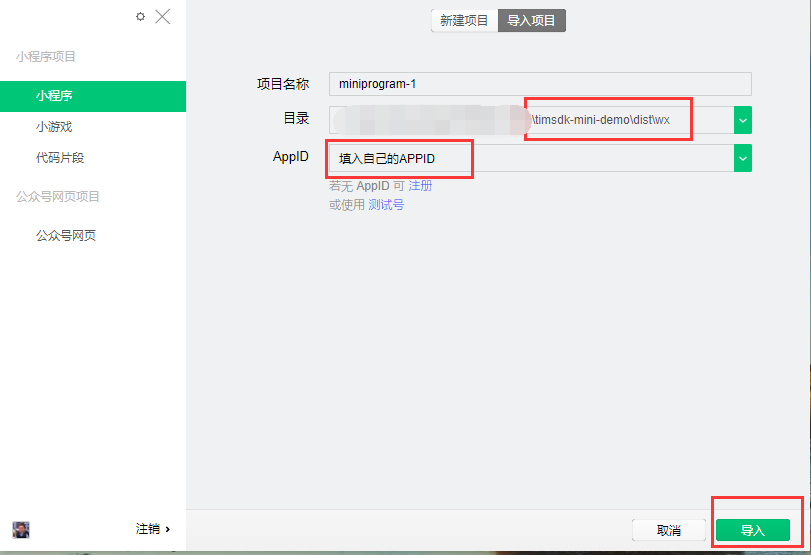
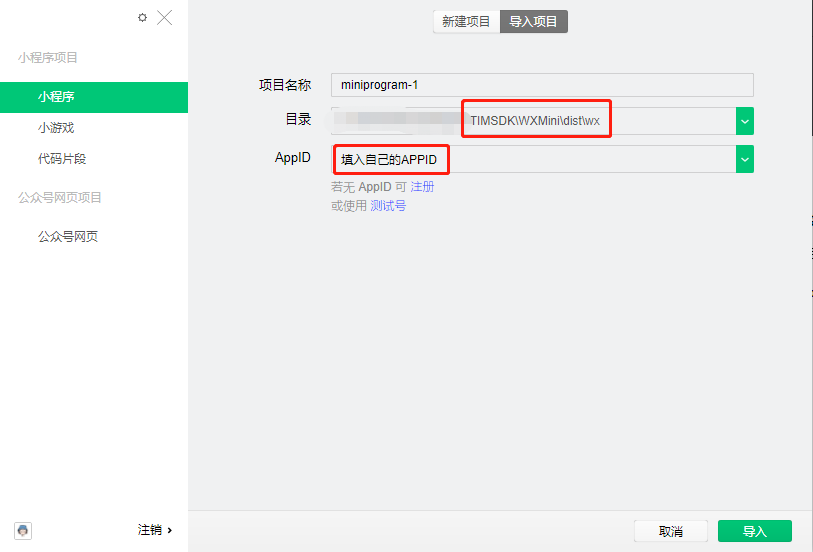
fix(doc):完善文档

diff --git a/WXMini/README.md b/WXMini/README.md
@@ -1,10 +1,6 @@
 # IMSDK小程序demo运行
 
-[获取 SDKAPPID 和 SECRETKEY](https://cloud.tencent.com/document/product/269/36838#.E6.AD.A5.E9.AA.A41.EF.BC.9A.E5.88.9B.E5.BB.BA.E5.BA.94.E7.94.A8)
-
-##  1分钟预览项目
-
-此小节专为想在本地快速预览小程序的用户说明如何快速在本地预览本项目
+##  一分钟跑通demo
 
 1. 安装微信小程序 [开发者工具](https://mp.weixin.qq.com/debug/wxadoc/dev/devtools/download.html)。
 
@@ -12,102 +8,57 @@
 
    ![](_doc/1.png)
 
-3. 修改`/dist/wx/static/debug/GeneraterUserSig.js` 文件里的 SDKAPPID 和 SECRETKEY 为第一步获取到的
-
+3. 配置 `SDKAPPID` 和 `SECRETKEY`，获取方式参考：[密钥获取方法](https://cloud.tencent.com/document/product/269/36838#.E6.AD.A5.E9.AA.A41.EF.BC.9A.E5.88.9B.E5.BB.BA.E5.BA.94.E7.94.A8)
+   1. 打开 `/dist/wx/static/debug/GeneraterUserSig.js` 文件
+   2. 按图示填写相应配置后，保存文件
+   
    ![](_doc/2.png)
 
 4. 点击编译即可运行
 
    ![](_doc/4.png)
+   
+    > **常见问题：**
+    >
+    > 1. 合法域名
+    >
+    >    进入微信公众平台，在小程序开发的服务器域名配置相关域名信息
+    >
+    >    ![](_doc/5.png)
+    >
+    > 2. 基础库
+    >
+    >    如果打开项目后，编译报错，请您升级小程序开发工具为最新版本，基础库版本 > 2.1.1,
+    >
+    > 3. 本地设置
+    >
+    >    如上图所示
 
 
-##  开发运行方法
+##  开发运行
 
-此小节专为想在本地开发小程序的用户说明如何快速在本地环境跑起来项目
-
-1. 安装微信小程序 [开发者工具](https://mp.weixin.qq.com/debug/wxadoc/dev/devtools/download.html)。
-
-2. 使用 IDE 打开下载后目录
-
-3. 将`project.config.json`文件中的`appid`修改为自己项目使用的
-
-   ![](_doc\3.png)
-
-4. 将 `/static/debug/GenerateTestUserSig.js`文件里的 `SDKAPPID` 和 `SECRETKEY` 修改为第一步获取到的 `SDKAPPID` 和 `SECRETKEY` 
-
-5. 项目使用了 [MpVue](http://mpvue.com/mpvue/)需要[nodejs](https://nodejs.org/zh-cn/)( Version > 8 ) 环境
-
-   安装依赖并启动
-
-   ```shell
-   npm install // 安装demo构建和运行所需依赖
-   npm run start / npm run build  // 构建并生成最终可在小程序开发工具内使用的代码
-   ```
-
-   > **常见问题：**
-   >
-   > 1. node 版本希望大于 8
-   >
-   > 2. npm install 出现问题
-   >
-   >    有时使用 npm install 命令有些依赖包无法成功安装，你可以试着切换 npm 源，然后再执行npm install命令
-
-6. 会生成有`dist/wx`文件夹
-
-7. 使用微信开发者工具导入项目，目录为`/dist/wx`
-
-  ![](_doc/1.png)
-
-8. 点击开发工具的编译即可预览该项目
-
-   ![](_doc/4.png)
-
-   > **常见问题：**
-   >
-   > 1. 合法域名
-   >
-   >    进入微信公众平台，在小程序开发的服务器域名配置相关域名信息
-   >
-   >    ![](_doc/5.png)
-   >
-   > 2. 基础库
-   >
-   >    如果打开项目后，编译报错，请您升级小程序开发工具，基础库使用>2.1.1,
-   >
-   > 3. 本地配置
-   >
-   >    本地开发时可以勾选不校验合法域名等
-
-9. 开发参考文档
-
-    > 1. [MpVue](http://mpvue.com/)
-    > 2. [Vue](https://cn.vuejs.org/index.html)
-    > 3. [Vuex](https://vuex.vuejs.org/zh/guide/)
-
-## 项目截图
-
-   ![](_doc/6.png)
-
-## 项目目录
+### 项目目录
 
 ```xml
+├───sdk/               - demo 中未使用，仅供自行集成 
+├  └───wx/ 
 ├───build/   
 ├───config/
 ├───dist/
-│   └───wx/ - MpVue项目编译后文件目录，使用小程序开发工具导入此文件夹
+│   └───wx/            - MpVue 项目编译后文件目录，使用小程序开发工具导入此文件夹
 ├───src/
-│   ├───components/ - 组件
-│   ├───pages/ - 页面
-│   ├───store/ - Vuex 目录
-│   ├───stylus/ - 全局主题色样式，可以修改全局颜色
-│   ├───utils/ - 方法
+│   ├───components/    - 组件
+│   ├───pages/         - 页面
+│   ├───store/         - Vuex 目录
+│   ├───stylus/        - 全局主题色样式，可以修改全局颜色
+│   ├───utils/         - 方法
 │   ├───app.json
 │   ├───App.vue
 │   └───main.js
-├───static/ - 静态依赖资源
-│   ├───debug/ - 包含userSig验证登录方法
-│   ├───images/ - 图片
-│   └───iview/ - 使用的iview组件
+├───static/            - 静态依赖资源
+│   ├───debug/         - 包含 userSig 验证登录方法
+│   ├───images/        - 图片
+│   └───iview/         - 使用的 iview 组件
 ├───_doc/
 ├───.babelrc
 ├───.editorconfig
@@ -122,13 +73,82 @@
 
 ```
 
-#### src/pages
+### 启动流程
 
-| 页面  | 关于                                                         |
+1. 克隆本仓库到本地
+      
+     ```shell
+     # 命令行执行
+     git clone https://github.com/tencentyun/TIMSDK.git
+     
+     # 进入 Web Demo 项目
+     cd TIMSDK/WXMini
+    ```
+
+2. 将`project.config.json`文件中的`appid`修改为自己微信小程序的`appid`
+
+   ![](_doc\3.png)
+
+3. 配置 `SDKAPPID` 和 `SECRETKEY`，获取方式参考：[密钥获取方法](https://cloud.tencent.com/document/product/269/36838#.E6.AD.A5.E9.AA.A41.EF.BC.9A.E5.88.9B.E5.BB.BA.E5.BA.94.E7.94.A8)
+    1. 打开 `/dist/wx/static/debug/GeneraterUserSig.js` 文件
+    2. 按图示填写相应配置后，保存文件
+    
+     ![](_doc/8.png)
+     
+4. 项目使用了 [MpVue](http://mpvue.com/mpvue/) 需要[nodejs](https://nodejs.org/zh-cn/) ( Version > 8 ) 环境
+
+   安装依赖并启动
+
+   ```shell
+   # 安装demo构建和运行所需依赖
+   npm install
+   
+   # 构建并生成最终可在小程序开发工具内使用的代码
+   npm run start
+   ```
+
+   > **注意事项：**
+   >
+   > 1. node version > 8
+   >
+   > 2. 使用 npm install 命令，如果有些依赖包无法成功安装，你可以试着切换 npm 源，然后再执行npm install命令
+
+6. 使用微信开发者工具导入项目，目录为`/dist/wx`
+
+    ![](_doc/1.png)
+
+7. 点击开发工具的编译即可预览该项目
+
+   ![](_doc/4.png)
+
+   > **注意事项：**
+   >
+   > 1. 合法域名
+   >
+   >    进入微信公众平台，在小程序开发的服务器域名配置相关域名信息
+   >
+   >    ![](_doc/5.png)
+   >
+   > 2. 基础库
+   >
+   >    如果打开项目后，编译报错，请您升级小程序开发工具，基础库使用>2.1.1,
+   >
+
+## 项目截图
+
+   ![](_doc/6.png)
+
+## 备注
+
+### 页面结构
+
+目录 /src/pages
+
+| 页面  | 简介                                                        |
 | :------- | ----------------------------------------------------------- |
 | login/   | 登录页                                                       |
 | index/   | 首页，对话列表                                                |
-| chat/    | 聊天对话页 and 群信息/用户信息                                 |
+| chat/    | 聊天对话页 & 群信息/用户信息                                 |
 | contact/ | 通讯录                                                       |
 | own/     | 个人信息                                                     |
 | create/  | 创建群聊                                                     |
